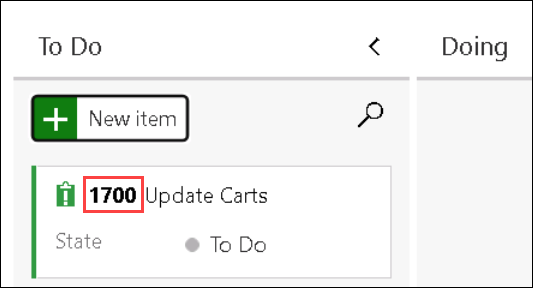
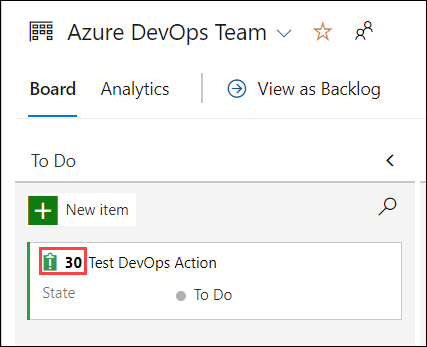
update

diff --git a/Labfiles/Integrating-with-Azure-DevOps.md b/Labfiles/Integrating-with-Azure-DevOps.md
@@ -1,3 +1,14 @@
+# Integrating with Azure DevOps
+
+Azure Boards is a powerful tool within the Azure DevOps suite designed to help teams plan, track, and manage their work. Integrating Azure Boards with GitHub can significantly enhance project management by linking development activities with planning and tracking workflows. Here's how this integration can benefit your team and the steps to set it up:
+
+### Benefits of Integrating Azure Boards with GitHub
+
+- **Unified Workflow**: Sync work items and pull requests between Azure Boards and GitHub, ensuring that all team members have visibility into progress and issues, regardless of the platform they use.
+- **Automated Linking**: Automatically link GitHub commits and pull requests to work items in Azure Boards. This creates traceability from code changes to project tasks.
+- **Enhanced Collaboration**: Teams can use GitHub for source control and collaboration while leveraging Azure Boards for work item tracking, providing a seamless experience across both platforms.
+- **Improved Planning and Tracking**: Plan sprints, track progress, and manage backlogs in Azure Boards while developers continue to use GitHub for their code repositories.
+
 In this exercise, you'll explore Azure boards and Azure test plans. Azure Boards provides software development teams with the interactive and customizable tools they need to manage their software projects. Azure Test Plans provides rich and powerful tools everyone in the team can use to drive quality and collaboration throughout the development process. The easy-to-use, browser-based test management solution provides all the capabilities required for planned manual testing.
 
 ### Task 1: Connect Azure Board with GitHub
@@ -7,20 +18,24 @@ In this task, you will connect your Azure DevOps project's board to your GitHub 
 1. In your browser open Azure DevOps by navigating to the below URL:
 
     ``` 
-    https://dev.azure.com/aiw-devops/
+    https://dev.azure.com/
     ```
 
-2. In the Azure DevOps page click on the **User settings** **(1)** from the top right corner of the page and click on **Preview features** **(2)**.
+2. In the **Create a project to get started**, enter the Project name as **Azure DevOps** **(1)**, Select **Public** **(2)** as visibility and click on **+ Create project** **(3)**.
+
+    ![](../media/create-devops-project.png)
+
+3. In the Azure DevOps page click on the **User settings** **(1)** from the top right corner of the page and click on **Preview features** **(2)**.
 
    ![](../media/preview-features.png)
 
     > **Note:** If you get a sign-in error, then click on **Sign out and sign with a different account** link and login with your ODL user's Azure credentials. In the next page, leave the details to default and proceed. You should be logged in to the Azure DevOps organization. 
 
-3. In the **Preview features** pop-up, ensure to set the toggle button to **off** for **New Boards Hubs** **(1)** and close the preview features by clicking on **X** **(2)**.
+4. In the **Preview features** pop-up, ensure to set the toggle button to **off** for **New Boards Hubs** **(1)** and close the preview features by clicking on **X** **(2)**.
    
    ![](../media/new-boards-hubs1.png)
 
-4. In your browser open GitHub Marketplace by navigating to the below URL:
+5. In your browser open GitHub Marketplace by navigating to the below URL:
 
     ``` 
     https://github.com/marketplace/azure-boards
@@ -28,15 +43,15 @@ In this task, you will connect your Azure DevOps project's board to your GitHub 
 
     ![The Azure Boards Integration App on GitHub Marketplace that will provide a link between Azure DevOps Boards and GitHub issues.](../media/hol-ex1-task1-step1.png "Azure Boards Integration App on GitHub Marketplace")
 
-5. Scroll to the bottom of the page and select `Install it for Free.`
+6. Scroll to the bottom of the page and select `Install it for Free.`
 
    ![](../media/2dg50.png)
 
     >**Note:** If the **Install it for free** button is greyed out, please proceed to next step.
    
-6. On the next page, select **Complete order and begin installation**.
+7. On the next page, select **Complete order and begin installation**.
 
-7. Select the lab files repository `aiw-devops-with-github-lab-files` which you created earlier and click on **Install & Authorize**.
+8. Select the lab files repository `github-action` which you created earlier and click on **Install & Authorize**.
 
    ![](../media/ex4-kc-install&auth.png)
     
@@ -56,38 +71,46 @@ In this task, you will connect your Azure DevOps project's board to your GitHub 
 
         ![](../media/img10.png).
     
-8. Select the **aiw-devops (1)** Azure DevOps organization and select the **Contosotraders-<inject key="DeploymentID" enableCopy="false" /> (2)** project then click on **Continue (3)**
+9. Select the **aiw-devops (1)** Azure DevOps organization and select the **Azure DevOps** **(2)** project then click on **Continue (3)**
 
    ![](../media/azuredevops.png)
 
-9. In the Azure Boards tab, click on **New Item** ***(1)***, provide **Update carts** **(2)** as a description and create a new work item by hitting **enter**.
+   > **Note**: Once you login to the Azure DevOps successfully, in the pop-up **Success!**, click on **close** button.
 
-   ![](../media/ex4-task2-step1.png)
+     ![](../media/succedded.png) 
+
+10. In the Azure Boards tab, click on **New Item** **(1)**, provide **Test DevOps Action** **(2)** as a description and create a new work item by hitting **enter**.
+
+     ![](../media/ex4-task2-step1.png)
    
-10. After creating a work item, Please note down the Work item ID which will be used in the further steps.
+11. After creating a work item, Please note down the Work item ID which will be used in the further steps.
 
-    ![](../media/ex4-kc-todo-new1.png)
+     ![](../media/ex4-kc-todo-new1.png)
    
-11. Select the **Code** ***(1)*** tab in your GitHub repository, navigate to **aiw-devops-with-github-lab-files/.github/workflows/** ***(2)*** and select **contoso-traders-provisioning-deployment.yml** ***(3)*** file.
+12. Select the **Code** **(1)** tab in your GitHub repository, navigate to **.github/workflows/** **(2)** and select **any of the workflow you crated** **(3)** file.
 
-    ![](../media/2dgn140.png)
+     ![](../media/2dgn140.png)
    
-12. Copy `#test azure boards` code and paste it into line number 1 of the file. Make sure there are no indentation errors.
+13. In the workflow file click on **edit** button.
 
-    ![](../media/2dgn166.png)
+     ![](../media/edit.png)
+
+14. Copy `#test azure boards` code and paste it into line number 1 of the file. Make sure there are no indentation errors.
+
+     ![](../media/2dgn166.png)
    
-13. Click on **Commit Changes** ***(1)***, provide the details mentioned below and click on **Propose changes** ***(5)***.
+15. Click on **Commit Changes** ***(1)***, provide the details mentioned below and click on **Propose changes** ***(5)***.
 
-   - Provide `workitem ID Updated` ***(2)*** as title. Make sure to provide the same **Work item ID** that was created in the earlier step in Azure DevOps.
-   - Select **Create a new branch for this commit and start a pull request** ***(3)***  and name the new branch as **update carts** ***(4)***.
+    - Provide `AB#workitem ID Updated` **(2)** as title. Make sure to provide the same **Work item ID** that was created in the earlier step in Azure DevOps.
+    - Select **Create a new branch for this commit and start a pull request** **(3)** and name the new branch as **demo-DevOps** **(4)**.
 
        ![](../media/E3T2S5.png)
    
-14. On Open a pull request tab, Click on **Create pull request** 
+16. On Open a pull request tab, Click on **Create pull request** 
 
-    ![](../media/ex4-create-pr.png)
+     ![](../media/ex4-create-pr.png)
    
-15. Navigate to **Azure Boards**. Open the **work item** ***(1)*** created in the earlier step.
+17. Navigate to **Azure Boards**. Open the **work item** ***(1)*** created in the earlier step.
 
     ![](../media/ex4-open-wi.png)
 
@@ -99,7 +122,7 @@ In this task, you will connect your Azure DevOps project's board to your GitHub 
 
     ![](../media/ex4-github-pr.png)
    
-18. Open the PR created from **updated carts** branch and select **Merge pull request**.
+18. Open the PR created from **demo-Devops** branch and select **Merge pull request**.
 
     ![](../media/ex4-mergepr.png)
    
